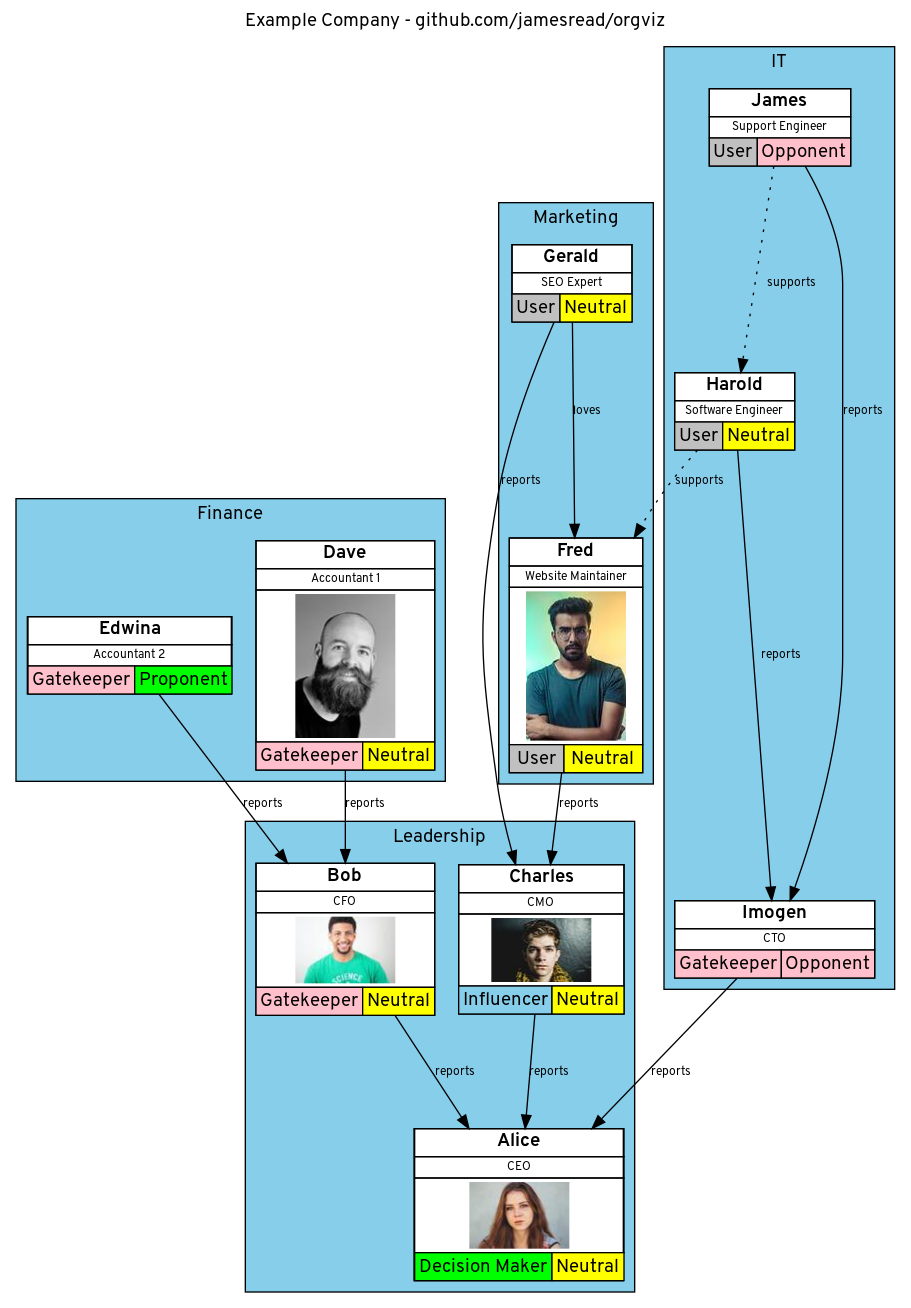
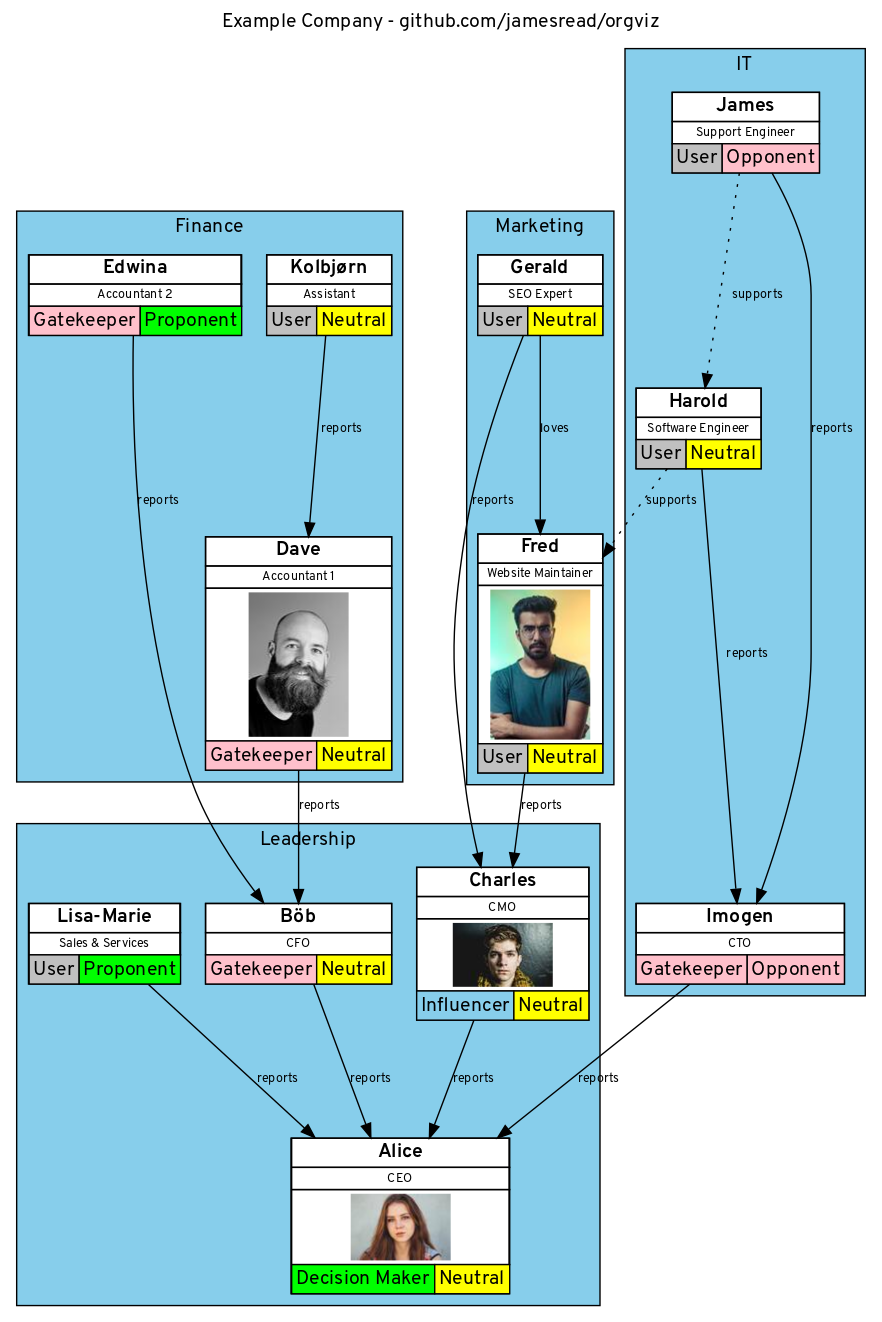
Support for accented, and hypenated names

diff --git a/orgviz.py b/orgviz.py
@@ -24,6 +24,7 @@ def getArgumentParser():
     parser.add_argument("--outputType", "-T", default = "svg", choices = ["png", "svg"])
     parser.add_argument("--keepDotfile", action = "store_false")
     parser.add_argument("--vizType", choices = ["DS", "inf", "none"], default = "DS");
+    parser.add_argument("--dpi", type = int, default = 100, help = 'DPI (resolution), only used for PNG.');
     parser.add_argument("--attributeMatches", "-a", nargs = "*", default = [], metavar = "KEY=VALUE")
 
     return parser
@@ -231,6 +232,7 @@ def parsePersonProperty(model, line):
 
 def convertHumanNameToDotNodeName(name):
     name = name.strip().replace(" ", "_")
+    name = name.strip().replace("-", "")
 
     return name
 
@@ -378,7 +380,7 @@ def getModelAsDot(model):
     out += "digraph {\n"
 
     if args.outputType == "png":
-        out += "graph [ dpi = 300 ]\n"
+        out += "graph [ dpi = " + str(args.dpi) +  " ]\n"
 
     if not args.skipDrawingTitle:
         out += 'label="' + model.title + ' - github.com/jamesread/orgviz"' + "\n"
